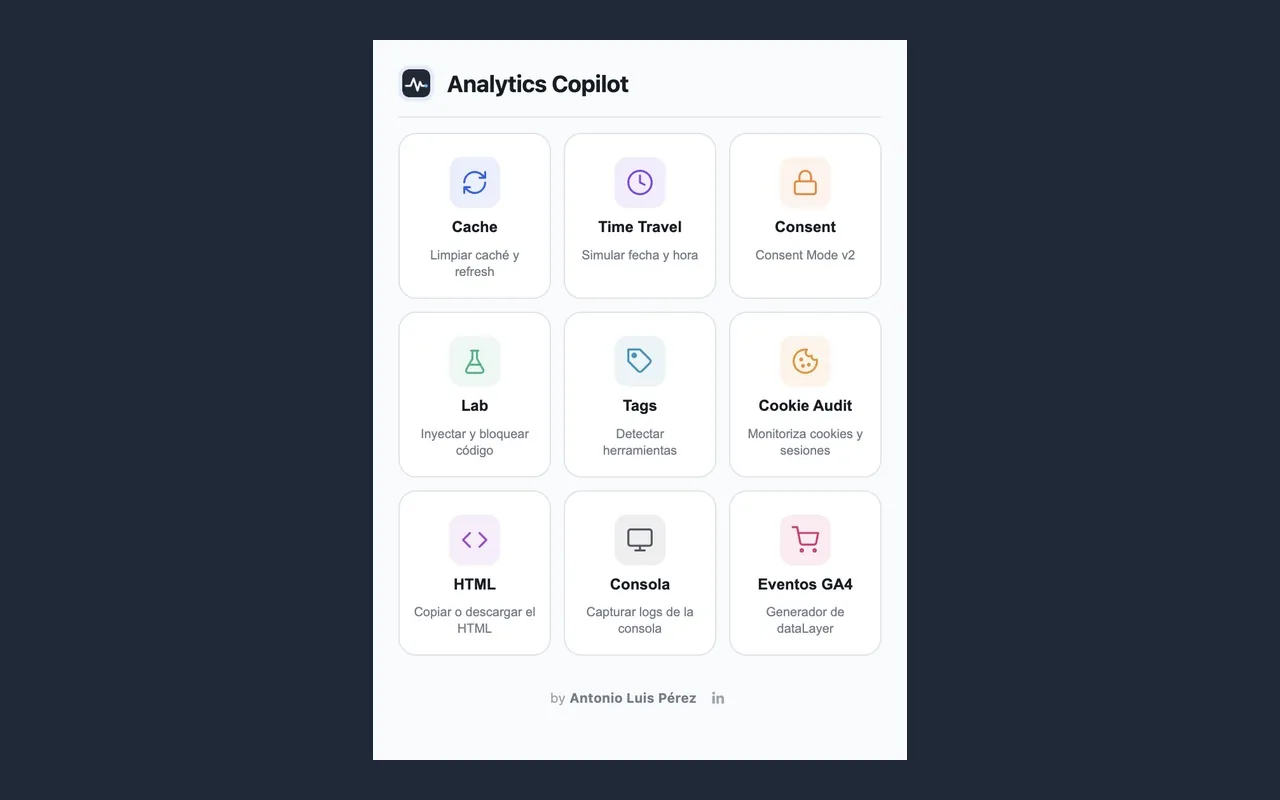
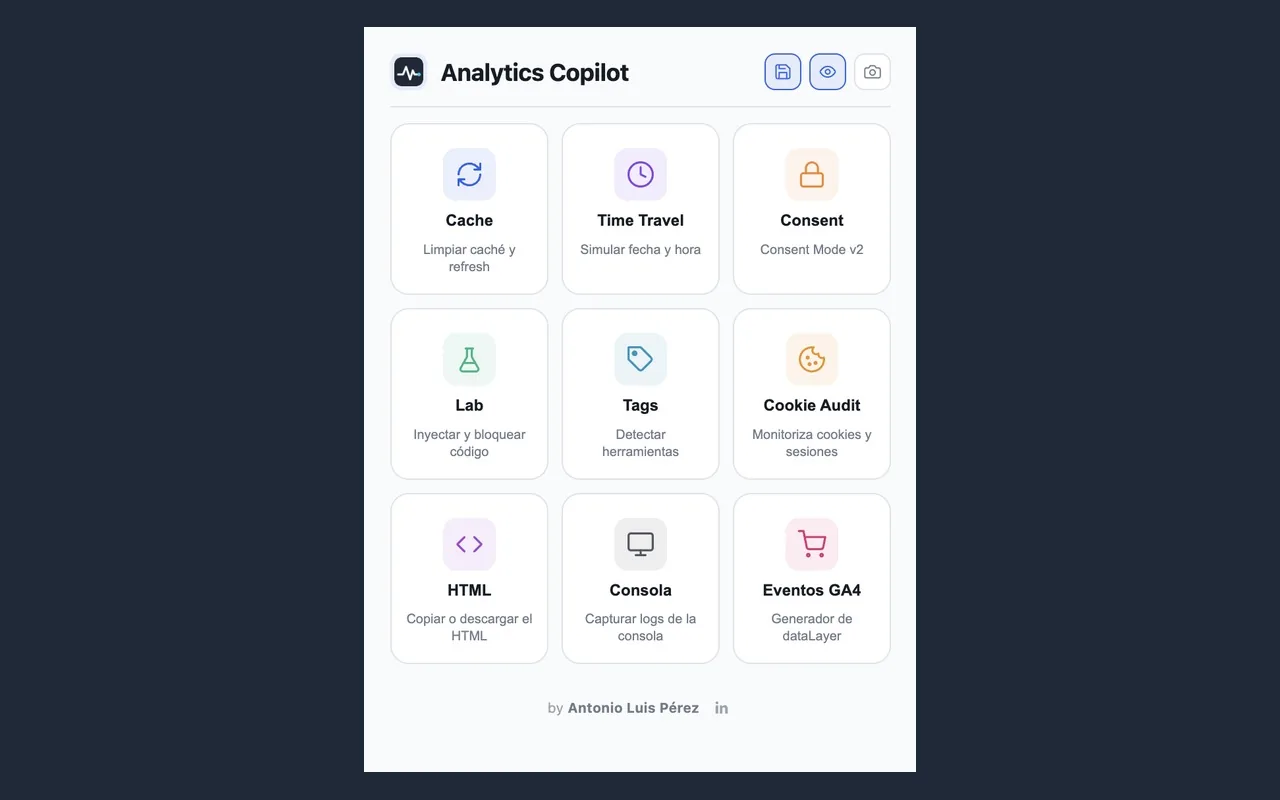
Analytics Copilot 1.4.1, con la captura del editor y la fecha real
Llegan las imagenes que faltaban: editor.jpg, el editor de anotaciones
con su barra sobre una captura de pagina completa, y menu.jpg
actualizada, que ya enseña los accesos a la captura en la cabecera. Las
dos pasan a webp con la misma calidad que el resto (20 KB cada una). El
alt del hero vuelve a decir cuantas herramientas hay, porque la captura
por fin las enseña.

Entrada 1.4.1 encima de la 1.4.0 en las notas de version: el copiado al
portapapeles de la captura anotada, que en la 1.4.0 salia en gris y aun
funcionando se habria llevado el fondo sin las anotaciones. Las entradas
se apilan con una linea entre ellas, listas para las que vengan. La
tarjeta Captura gana la frase del portapapeles y el PNG.

La 1.4.0 lleva su fecha real, 22 de agosto de 2026, sacada de la release
de GitHub. La 1.4.1 se queda en "agosto" porque en GitHub todavia no
esta publicada.

softwareVersion 1.4.1 en el schema y en llms.txt.

diff --git a/analytics-copilot/index.html b/analytics-copilot/index.html
@@ -32,7 +32,7 @@
                 "applicationCategory": "BrowserApplication",
                 "operatingSystem": "Chrome",
                 "description": "Extensión de Chrome con 10 herramientas de QA para analítica web: Consent Mode v2, sesión GA4 en tiempo real, atribución de Google Ads, generador de eventos de dataLayer y captura de página completa con editor de anotaciones. 100% local.",
-                "softwareVersion": "1.4.0",
+                "softwareVersion": "1.4.1",
                 "releaseNotes": "https://github.com/alpc-data-analyst/analytics-copilot/releases",
                 "url": "https://antonioluisperez.com/analytics-copilot/",
                 "image": "https://antonioluisperez.com/analytics-copilot/img/og.jpg",
@@ -173,7 +173,7 @@
             </p>
 
             <figure class="reveal ext-shot ext-shot--hero">
-                <img src="img/menu.webp" alt="Parrilla de herramientas de Analytics Copilot en el popup de Chrome" width="1280" height="800" decoding="async" />
+                <img src="img/menu.webp" alt="Parrilla de las 10 herramientas de Analytics Copilot en el popup de Chrome, con los accesos a la captura en la cabecera" width="1280" height="800" decoding="async" />
             </figure>
         </section>
 
@@ -220,7 +220,7 @@
                 </div>
                 <div class="reveal ext-item ext-item--new" style="--d:0ms">
                     <h3>📸 Captura <span class="ext-new">Nuevo en 1.4</span></h3>
-                    <p>Pantallazo de la página completa: hace scroll y cose la web entera en una sola imagen, ocultando cabeceras fijas para que no se repitan. Se abre en un editor donde señalar con flechas, cajas y texto, y difuminar datos sensibles (client_id, emails, transaction_id) antes de mandársela a un cliente.</p>
+                    <p>Pantallazo de la página completa: hace scroll y cose la web entera en una sola imagen, ocultando cabeceras fijas para que no se repitan. Se abre en un editor donde señalar con flechas, cajas y texto, y difuminar datos sensibles (client_id, emails, transaction_id) antes de mandársela a un cliente. Copia la imagen anotada al portapapeles o descárgala como PNG.</p>
                 </div>
             </div>
         </section>
@@ -246,9 +246,19 @@
             <p class="reveal section__label">Novedades</p>
             <h2 class="reveal section__title">Notas de versión.</h2>
 
+            <article class="reveal release release--minor">
+                <p class="release__meta"><span class="release__tag">v1.4.1</span> <span class="release__date">Agosto de 2026</span></p>
+                <h3 class="release__title">Copiar la captura anotada al portapapeles</h3>
+                <p class="release__text">En la 1.4.0 el clic derecho sobre la captura mostraba "Copiar imagen" en gris, sin funcionar: el clic caía sobre la capa de anotación y no sobre la imagen, y aunque hubiera caído bien, el copiado nativo del navegador se habría llevado el fondo sin las anotaciones, que es justo lo que no sirve. Ahora el clic derecho abre un menú propio con "Copiar imagen con anotaciones" y "Descargar PNG", hay un botón Copiar en la barra y funciona con Ctrl o Cmd + C. Todo se compone en el navegador; sigue sin subirse nada y sin permisos nuevos.</p>
+            </article>
+
             <article class="reveal release">
-                <p class="release__meta"><span class="release__tag">v1.4.0</span> <span class="release__date">Agosto de 2026</span></p>
+                <p class="release__meta"><span class="release__tag">v1.4.0</span> <span class="release__date">22 de agosto de 2026</span></p>
                 <h3 class="release__title">Captura de página completa con editor de anotaciones</h3>
+                <figure class="release__shot">
+                    <img src="img/editor.webp" alt="Editor de anotaciones de Analytics Copilot sobre una captura de página completa, con la barra de flechas, cajas, texto y difuminado" width="1280" height="800" loading="lazy" decoding="async" />
+                    <figcaption>El editor: flechas, cajas, texto y difuminado sobre la página entera</figcaption>
+                </figure>
                 <p class="release__text"><code>chrome.tabs.captureVisibleTab</code> solo fotografía lo que se ve, así que la extensión recorre la página por tramos, los captura y los cose en un canvas. Funciona incluso cuando quien hace scroll no es el documento sino un contenedor interno, como pasa en los informes de GA4, y oculta las cabeceras fijas para que no salgan repetidas en cada tramo.</p>
                 <p class="release__text">La última captura queda guardada y se abre en un editor de anotaciones: flechas, cajas y texto que se pueden mover y reeditar después de crearlos, y una herramienta de difuminado que pixela muestreando la imagen original. El dato queda irrecuperable en el PNG; no es un efecto visual que alguien pueda deshacer.</p>
                 <p class="release__text">Todo ocurre en el navegador: la imagen se compone en un canvas local y se guarda en el IndexedDB del propio Chrome. Sin subidas, sin servidor, sin telemetría.</p>

diff --git a/styles.css b/styles.css
@@ -2221,6 +2221,33 @@ body.menu-open {
     padding-bottom: 3px;
 }
 
+/* Cada version es un articulo; las menores van mas juntas y sin captura */
+.release + .release {
+    margin-top: clamp(34px, 5vw, 56px);
+    padding-top: clamp(28px, 4vw, 44px);
+    border-top: 2px solid var(--gray-ghost);
+}
+
+.release__shot {
+    margin-top: 20px;
+    border: 3px solid var(--black);
+    background: #1f2937;
+}
+
+.release__shot img {
+    display: block;
+    width: 100%;
+    height: auto;
+    aspect-ratio: 1280 / 800;
+}
+
+.release__shot figcaption {
+    padding: 10px 14px;
+    font-size: 0.76rem;
+    color: var(--gray-meta);
+    background: var(--bg);
+}
+
 /* La tarjeta nueva de la parrilla se señala con una etiqueta */
 .ext-new {
     display: inline-block;
